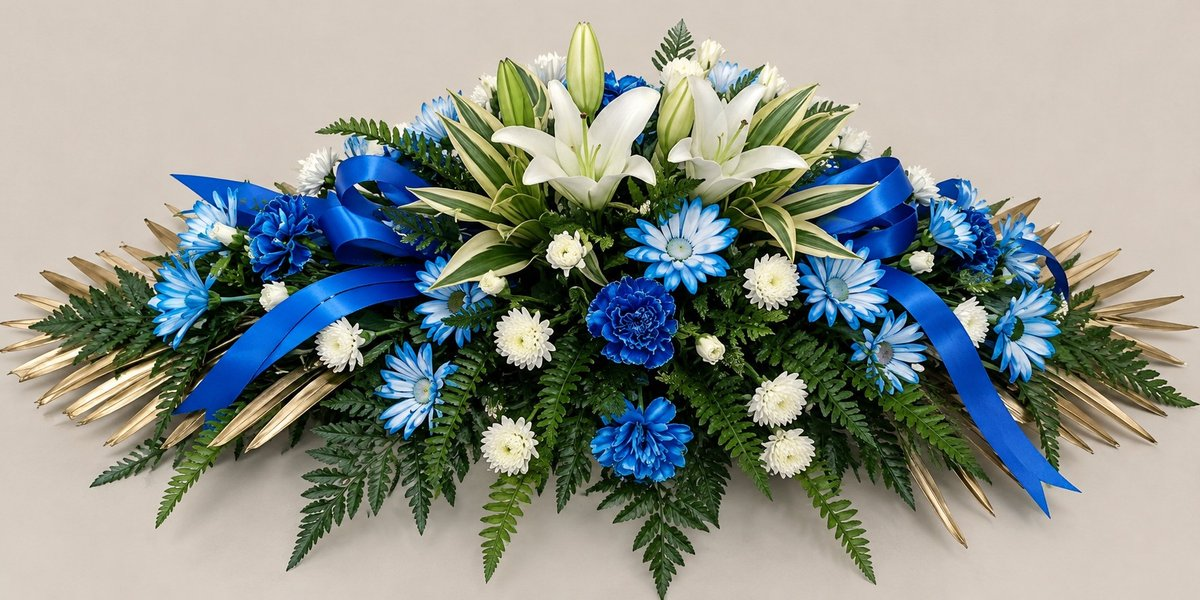
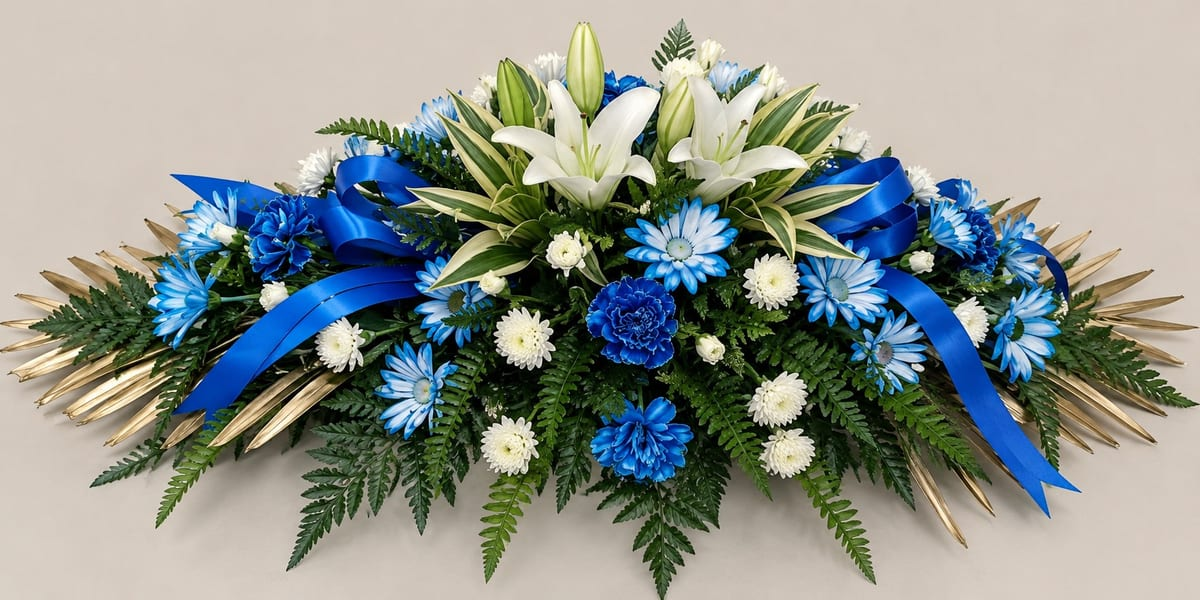
Sync: five casket spray photos, Green and Teal colours
Claude-Session: https://claude.ai/code/session_012zeu8FJKv5q6un4wTjgwpq

diff --git a/flowers.html b/flowers.html
@@ -62,7 +62,7 @@
 <div class="ts-flower-grid">
 <div class="ts-panel ts-flower"><img src="images/thumbs/casket-spray-blue-white.jpg?v=8cead447" width="700" height="467" alt="Casket Spray" class="img-fluid" data-flower-img /><h3>Casket Spray</h3><p class="ts-price">Price on request</p>
 <label class="form-label ts-variant-label" for="fv-casket-spray">Colour / style</label>
-<select class="form-select ts-variant" id="fv-casket-spray" data-product="Casket Spray"><option value="White" data-slug="casket-spray-white">White</option><option value="Pink" data-slug="casket-spray-pink" data-photo="images/thumbs/casket-spray-pink.jpg?v=f7cf126a">Pink</option><option value="Red" data-slug="casket-spray-red" data-photo="images/thumbs/casket-spray-red-white.jpg?v=054b0035">Red</option><option value="Yellow" data-slug="casket-spray-yellow">Yellow</option><option value="Blue" data-slug="casket-spray-blue" data-photo="images/thumbs/casket-spray-blue-white.jpg?v=8cead447" selected>Blue</option><option value="Purple" data-slug="casket-spray-purple">Purple</option><option value="Gold" data-slug="casket-spray-gold" data-photo="images/thumbs/casket-spray-blue-gold.jpg?v=6efd3b55">Gold</option><option value="Mixed" data-slug="casket-spray-mixed">Mixed</option></select>
+<select class="form-select ts-variant" id="fv-casket-spray" data-product="Casket Spray"><option value="White" data-slug="casket-spray-white">White</option><option value="Pink" data-slug="casket-spray-pink" data-photo="images/thumbs/casket-spray-pink.jpg?v=f7cf126a">Pink</option><option value="Red" data-slug="casket-spray-red" data-photo="images/thumbs/casket-spray-red-white.jpg?v=054b0035">Red</option><option value="Yellow" data-slug="casket-spray-yellow" data-photo="images/thumbs/casket-spray-yellow-gold.jpg?v=f1b3559f">Yellow</option><option value="Blue" data-slug="casket-spray-blue" data-photo="images/thumbs/casket-spray-blue-white.jpg?v=8cead447" selected>Blue</option><option value="Blue &amp; Gold" data-slug="casket-spray-blue-gold" data-photo="images/thumbs/casket-spray-blue-gold.jpg?v=f5828700">Blue &amp; Gold</option><option value="Purple" data-slug="casket-spray-purple" data-photo="images/thumbs/casket-spray-pink-purple.jpg?v=9eaad3b4">Purple</option><option value="Gold" data-slug="casket-spray-gold" data-photo="images/thumbs/casket-spray-yellow-gold.jpg?v=f1b3559f">Gold</option><option value="Green" data-slug="casket-spray-green" data-photo="images/thumbs/casket-spray-green-white.jpg?v=807fe0fc">Green</option><option value="Teal" data-slug="casket-spray-teal" data-photo="images/thumbs/casket-spray-teal-white.jpg?v=374c8b7c">Teal</option><option value="Mixed" data-slug="casket-spray-mixed">Mixed</option></select>
 <button type="button" class="btn btn-outline-primary ts-add" data-variant-select="fv-casket-spray" data-price="" data-from=""><i class="fa fa-plus me-2" aria-hidden="true"></i>Add to basket<span class="visually-hidden">: Casket Spray</span></button></div>
 <div class="ts-panel ts-flower"><img src="images/thumbs/floral-cross-yellow.jpg?v=658d1e6b" width="507" height="760" alt="Floral Cross" class="img-fluid ts-contain" data-flower-img /><h3>Floral Cross</h3><p class="ts-price">Price on request</p>
 <label class="form-label ts-variant-label" for="fv-floral-cross">Colour / style</label>
